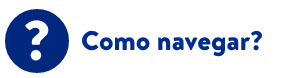
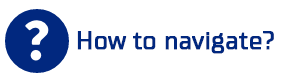
cambios en el popup

Changed region(s): [[0.25, 0.3846, 0.9688, 0.7179]]

diff --git a/css/styles.css b/css/styles.css
@@ -137,3 +137,18 @@ p {
   left: 0;
   position: absolute;
 }
+
+.a-dialog-allow-button {
+  background-color: rgb(0, 0, 204);
+  color: rgb(255, 255, 255);
+}
+
+.a-dialog-deny-button {
+  background-color: rgb(0, 0, 204);
+  color: rgb(255, 255, 255);
+}
+
+.a-dialog-ok-button {
+  background-color: rgb(0, 0, 204);
+  color: rgb(255, 255, 255);
+}

diff --git a/js/app.js b/js/app.js
@@ -62,7 +62,7 @@ function howNavigate() {
   } else {
     document
       .getElementById("cardImg")
-      .setAttribute("src", "../assets/extras/cardHowNavEN.png");
+      .setAttribute("src", "../assets/extras/cardHowNavEN.jpg");
   }
 
   myModal.show();

diff --git a/index.html b/index.html
@@ -32,7 +32,7 @@
   <script>
     window.onload(
       setTimeout(() => {
-        location.href = "/view360/oficina-full/"
+        location.href = "/360/oficina-full/"
       }, 2000)
     )
   </script>

diff --git a/oficina-sencilla/index.html b/oficina-sencilla/index.html
@@ -174,6 +174,7 @@
   <!-- Hoja Js Personal -->
   <script src="../js/app.js"></script>
   <script src="js/app-os.js"></script>
+  
 </body>
 
 </html>
